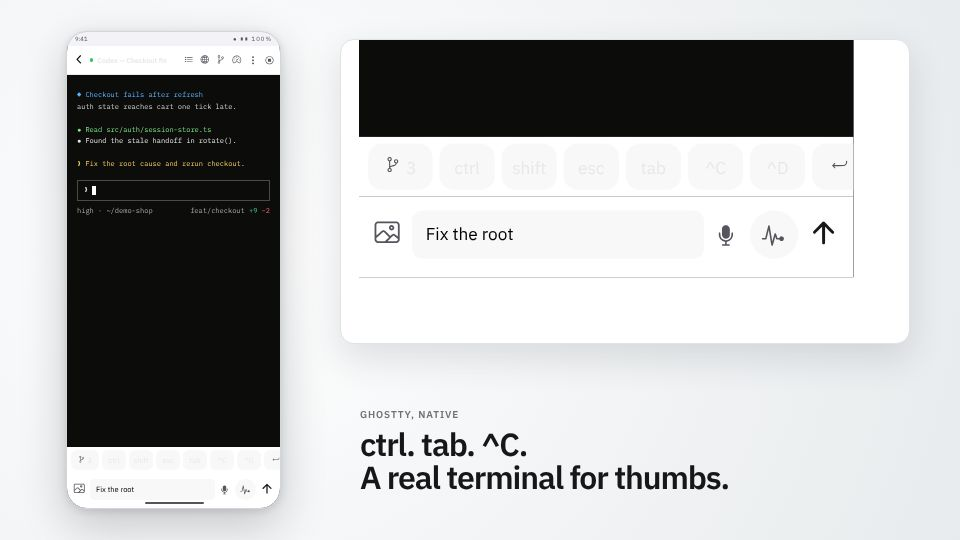
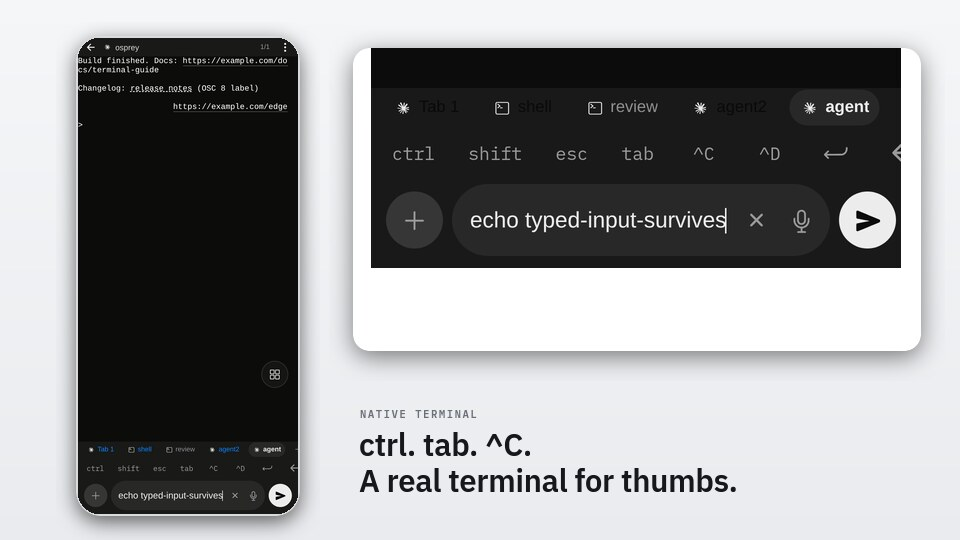
no-mistakes(document): Refresh terminal README imagery and alt text

diff --git a/README.md b/README.md
@@ -45,7 +45,7 @@ Open the same live terminal the agent owns on your computer — native Ghostty r
 
 </td>
 <td width="55%">
-  <a href="https://trymuxr.com/#demo"><picture><source srcset="docs/assets/readme/terminal.webp" type="image/webp"><img src="docs/assets/readme/terminal.jpg" alt="muxr's native mobile terminal with modifier keys and prompt composer" width="100%" /></picture></a>
+  <a href="https://trymuxr.com/#demo"><picture><source srcset="docs/assets/readme/terminal.webp" type="image/webp"><img src="docs/assets/readme/terminal.jpg" alt="muxr's redesigned terminal with compact header, floating quick actions, key row, and prompt composer" width="100%" /></picture></a>
 </td>
 </tr>
 <tr>
